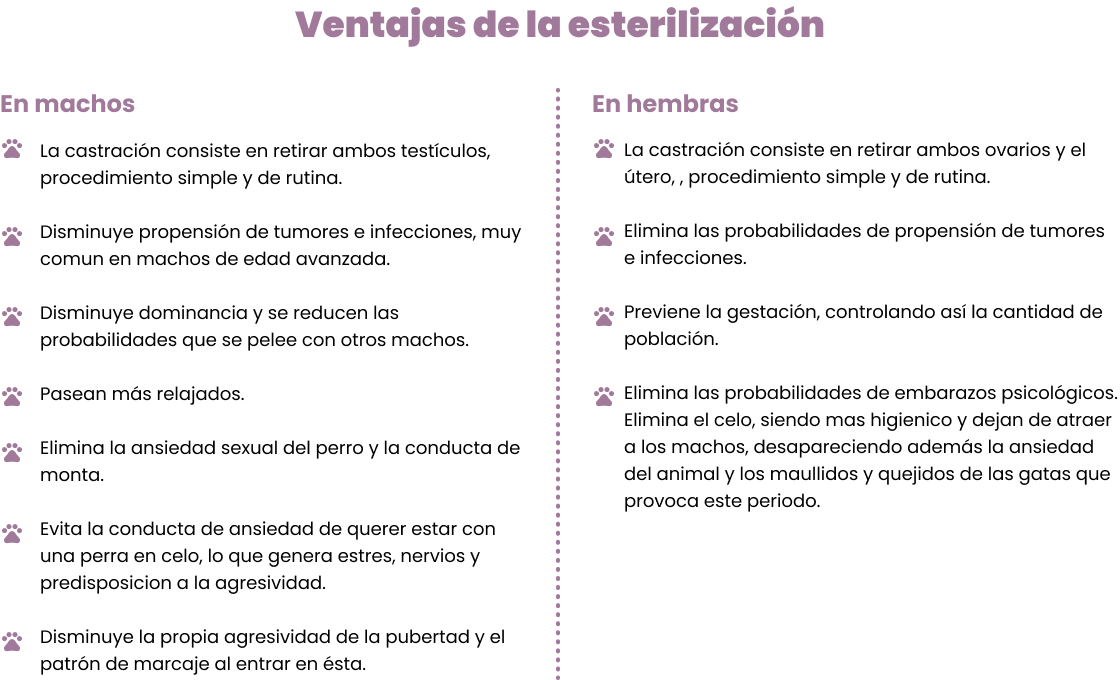
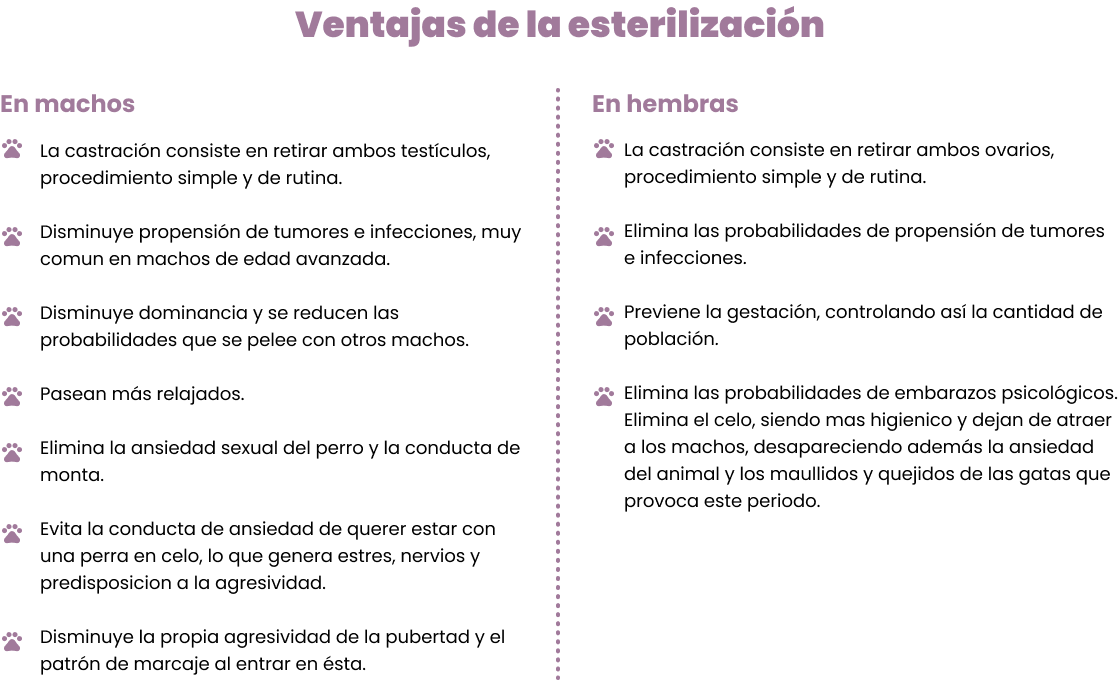
fix. mobile - castracion

Changed region(s): [[0.5625, 0.2471, 0.875, 0.2779], [0.9375, 0.2162, 0.9688, 0.2471]]

diff --git a/pages/castrar.html b/pages/castrar.html
@@ -109,8 +109,8 @@
             <!-- parrafos -->
             <img src="../multimedia/img/infoUtil/IconMachos.png" alt="icono" class="iconmachos1"><p class="parraf__machos1">La castración consiste en retirar ambos testículos, procedimiento simple y de rutina. </p>
             <img src="../multimedia/img/infoUtil/IconMachos.png" alt="icono" class="iconmachos2"><p class="parraf__machos2">
-                Disminuye propensión de tumores e infecciones, muy comun en machos de edad avanzada. </p>
-            <img src="../multimedia/img/infoUtil/IconMachos.png" alt="icono" class="iconmachos3"><p class="parraf__machos3">Disminuye dominancia y se reducen las probabilidades que se pelee con otros machos.</p>
+                Disminuye propensión de tumores e infecciones, muy común en machos de edad avanzada. </p>
+            <img src="../multimedia/img/infoUtil/IconMachos.png" alt="icono" class="iconmachos3"><p class="parraf__machos3">Disminuye dominancia y se reducen las probabilidades de que se pelee con otros machos.</p>
             <img src="../multimedia/img/infoUtil/IconMachos.png" alt="icono" class="iconmachos4"><p class="parraf__machos4">Pasean más relajados. </p>
             <img src="../multimedia/img/infoUtil/IconMachos.png" alt="icono" class="iconmachos5"><p class="parraf__machos5">
                 Elimina la ansiedad sexual del perro y la conducta de monta.</p>
@@ -120,10 +120,10 @@
             <!-- subtitulo  hembras -->
             <h4 class="sub__hembras">En hembras</h4>
             <!-- parrafo -->
-            <img src="../multimedia/img/infoUtil/IconMachos.png" alt="icono" class="iconhembras1"><p class="parraf__hembras1">La castración consiste en retirar ambos ovarios y el útero, , procedimiento simple y de rutina. </p>
-            <img src="../multimedia/img/infoUtil/IconMachos.png" alt="icono" class="iconhembras2"><p class="parraf__hembras2">La castración consiste en retirar ambos ovarios y el útero, , procedimiento simple y de rutina. </p>
-            <img src="../multimedia/img/infoUtil/IconMachos.png" alt="icono" class="iconhembras3"><p class="parraf__hembras3">La castración consiste en retirar ambos ovarios y el útero, , procedimiento simple y de rutina. </p>
-            <img src="../multimedia/img/infoUtil/IconMachos.png" alt="icono" class="iconhembras4"><p class="parraf__hembras4">La castración consiste en retirar ambos ovarios y el útero, , procedimiento simple y de rutina. </p>
+            <img src="../multimedia/img/infoUtil/IconMachos.png" alt="icono" class="iconhembras1"><p class="parraf__hembras1">La castración consiste en retirar ambos ovarios, procedimiento simple y de rutina. </p>
+            <img src="../multimedia/img/infoUtil/IconMachos.png" alt="icono" class="iconhembras2"><p class="parraf__hembras2">Elimina las probabilidades de propensión de tumores e infecciones.</p>
+            <img src="../multimedia/img/infoUtil/IconMachos.png" alt="icono" class="iconhembras3"><p class="parraf__hembras3">Previene la gestación, controlando así la cantidad de población.</p>
+            <img src="../multimedia/img/infoUtil/IconMachos.png" alt="icono" class="iconhembras4"><p class="parraf__hembras4">Elimina las probabilidades de embarazos psicologicos. Elimina el celo, siendo mas higiénico y dejan de atraer a los machos, desapareciendo además la ansiedad del animal y los maullidos y quejidos de las gatas que provoca este periodo.</p>
             <!-- Ventaja para las familias -->
             <img src="../multimedia/img/infoUtil/catsmilesleeping.png" alt="" class="catsmiling">
             <h2 class="titulo__ventajafamilia">Ventajas para la familia</h2>
